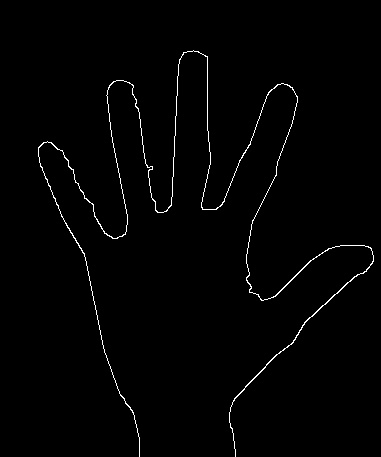
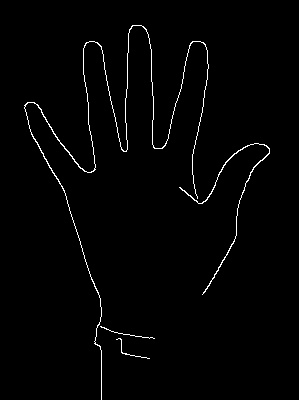
palm has large nums in hu moments; fist has very small numbers

diff --git a/sabinadev/src/DataReduction.java b/sabinadev/src/DataReduction.java
@@ -61,7 +61,7 @@ class ReduceData {
 		// TODO
 		
 		// Determine Position of skin
-		int[] dimensions = {381, 457};
+		int[] dimensions = {299, 400};
 		determineWhere(dimensions, centerOfMass);
 
 		// Save the visualized detection.
@@ -130,6 +130,7 @@ class ReduceData {
 	 */
 	public double[] determineCenterOfMass() {
 		double[] centerOfMass = new double[10]; 
+		Mat hu = new Mat(); 
 		
 		// Find the contours 
 		Mat image = getMat(); 
@@ -165,8 +166,16 @@ class ReduceData {
 	    List<Moments> moments = new ArrayList<Moments>(contours.size());
 	    for (int i = 0; i < contours.size(); i++) {
 	        moments.add(i, Imgproc.moments(contours.get(i), false));
+		    // Get hu moments
+		    //Imgproc.HuMoments(moments.get(i), hu); 
 	    }
 	    System.out.println("Size of moments: " + moments.size());
+	    Imgproc.HuMoments(moments.get(0), hu); 
+	    System.out.println("hu size: " + hu.total());
+	    double buff[] = new double[(int) (hu.total() * hu.channels())];
+	    hu.get(0, 0, buff);
+	    System.out.println("Buff values: " + buff[0] + " " + buff[1] + " " + buff[2]);
+
 	    
 	   //Compute the Center of Mass
 	    List<MatOfPoint2f> mc = new ArrayList<MatOfPoint2f>(contours.size()); 
@@ -197,8 +206,8 @@ class ReduceData {
 	public void determineWhere(int[] dimensions, double[] centerOfMass){
 		// Compute x-location
 		int x_middle = (int)dimensions[0]/2; 
-		int left_bound = (int)(x_middle-(0.05*x_middle));
-		int right_bound = (int)(x_middle+(0.05*x_middle));
+		int left_bound = (int)(x_middle-(0.1*x_middle));
+		int right_bound = (int)(x_middle+(0.1*x_middle));
 		
 		if(centerOfMass[0]<left_bound){
 			image_description.put("x-where", "left");
@@ -210,8 +219,8 @@ class ReduceData {
 		
 		// Compute y-location
 		int y_middle = (int)dimensions[1]/2; 
-		int upper_bound = (int)(y_middle-(0.05*y_middle));
-		int lower_bound = (int)(y_middle+(0.05*y_middle)); 
+		int upper_bound = (int)(y_middle-(0.1*y_middle));
+		int lower_bound = (int)(y_middle+(0.1*y_middle)); 
 		if(centerOfMass[1]<upper_bound){
 			image_description.put("y-where", "upper");
 		}else if(centerOfMass[0] > lower_bound){
@@ -225,7 +234,7 @@ class ReduceData {
 	}
 	
 	public Mat getMat(){
-		Mat image = Highgui.imread(getClass().getResource("/palm.jpg").getPath());
+		Mat image = Highgui.imread(getClass().getResource("/palm2.jpg").getPath());
 		return image; 
 	}
 }
